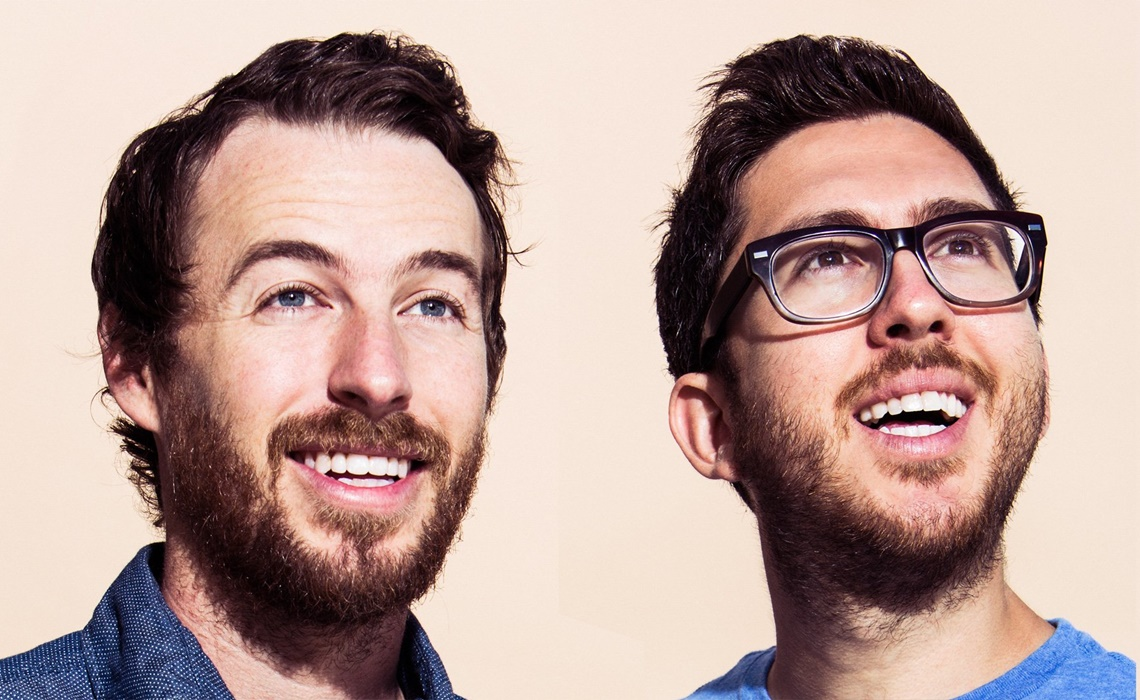
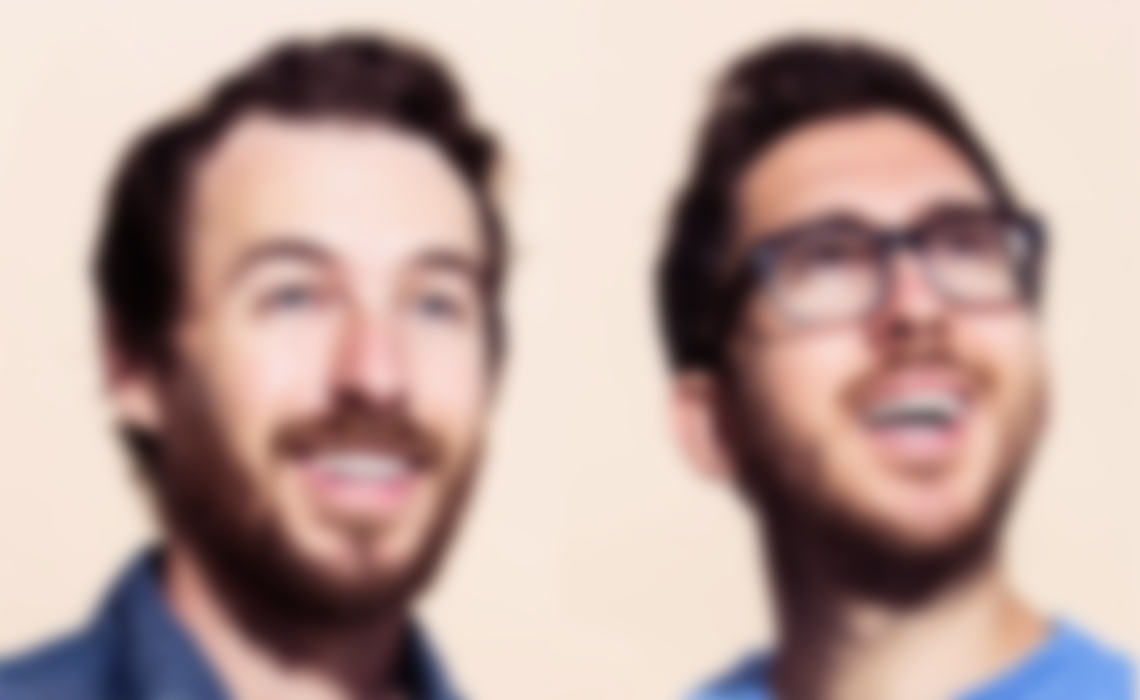
new design :)

Changed region(s): [[0.0, 0.03, 0.4605, 1.0], [0.5526, 0.03, 1.0, 1.0]]

diff --git a/src/App.css b/src/App.css
@@ -1,33 +1,3 @@
-body {
-	color: #555;
-	/* Permalink - use to edit and share this gradient: http://colorzilla.com/gradient-editor/#ffffff+0,f3f3f3+50,ededed+51,
-  ffffff+100;White+Gloss+%232 */
-	background: #ffffff; /* Old browsers */
-	background: -moz-linear-gradient(
-		-45deg,
-		#ffffff 0%,
-		#f3f3f3 50%,
-		#ededed 51%,
-		#ffffff 100%
-	); /* FF3.6-15 */
-	background: -webkit-linear-gradient(
-		-45deg,
-		#ffffff 0%,
-		#f3f3f3 50%,
-		#ededed 51%,
-		#ffffff 100%
-	); /* Chrome10-25,Safari5.1-6 */
-	background: linear-gradient(
-		135deg,
-		#ffffff 0%,
-		#f3f3f3 50%,
-		#ededed 51%,
-		#ffffff 100%
-	); /* W3C, IE10+, FF16+, Chrome26+, Opera12+, Safari7+ */
-	filter: progid:DXImageTransform.Microsoft.gradient( startColorstr='#ffffff', endColorstr='#ffffff',GradientType=1 );
-	/* IE6-9 fallback on horizontal gradient */
-}
-
 .switch-wrapper {
 	position: relative;
 }
@@ -38,10 +8,21 @@ body {
 
 body {
 	background: #dbedf3;
+	background: no-repeat
+		url(https://s3.us-west-2.amazonaws.com/amirandjake-us-oregon/assets/jake-and-amir-blur.jpg);
+	background: no-repeat
+		url(https://s3-us-west-2.amazonaws.com/amirandjake-us-oregon/assets/jake-and-amir.jpg);
+	background-size: 100% 100%;
 	font-family: 'Hind', sans-serif;
 	padding-bottom: 30px;
 	/*padding-top: 20px;*/
 	color: #333;
+	/*color: white;*/
+	background-attachment: fixed;
+}
+
+p {
+	text-shadow: 1px 1px 2px white, 0 0 1em white, 0 0 0.2em white;
 }
 
 .top-bar {
@@ -74,7 +55,9 @@ nav.top-bar div.item a {
 h1,
 h2,
 strong {
-	color: #333;
+	/*color: #333;*/
+	/*color: white;*/
+	color: #f73859;
 }
 
 h1,
@@ -108,19 +91,20 @@ h1 {
 }
 
 .card {
-	border: 1px;
-	border-color: darkgray;
+	border-width: 0;
+	border-left-width: 8px;
+	border-left-color: #f73859;
 	border-radius: 5px;
 	border-style: solid;
 	padding: 15px;
 	background-color: #404b69;
-	box-shadow: 2px 1px black;
+	box-shadow: 0 8px 6px -6px black;
 	margin-bottom: 15px;
 	color: #dbedf3;
 }
 
 .card:hover {
-	box-shadow: 4px 2px black;
+	box-shadow: 0 8px 6px -6px black;
 }
 
 .card p,
@@ -153,8 +137,9 @@ label {
 	text-align: center;
 }
 
-.pagination li {
+.pagination li a {
 	font-size: 2em;
+	/*color: white;*/
 }
 
 #make-my-gif video {
